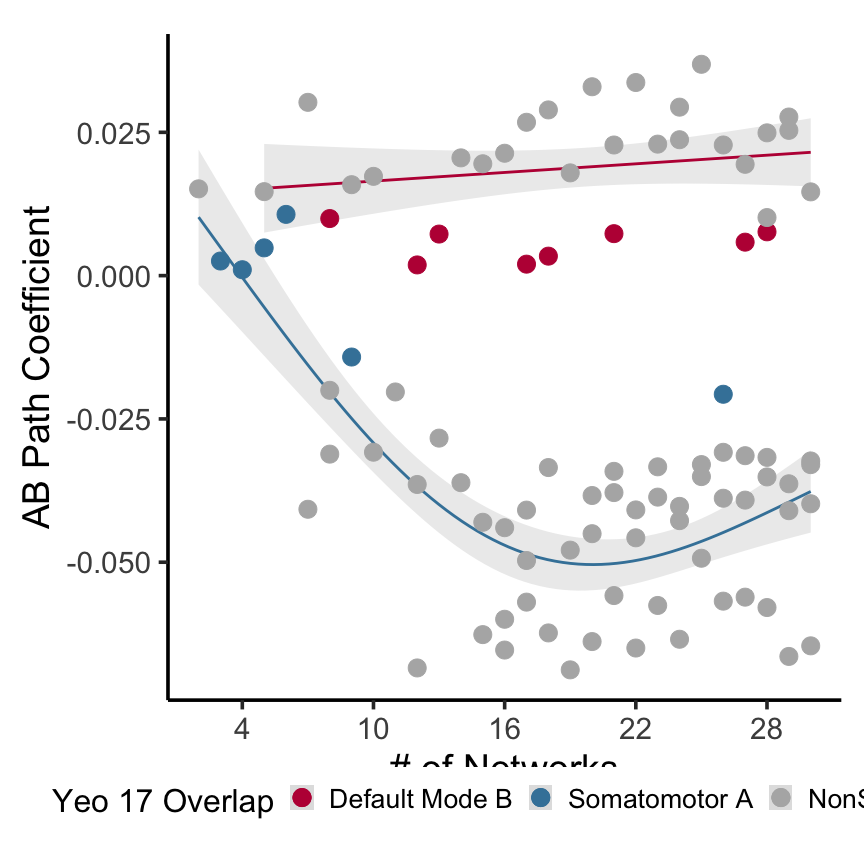
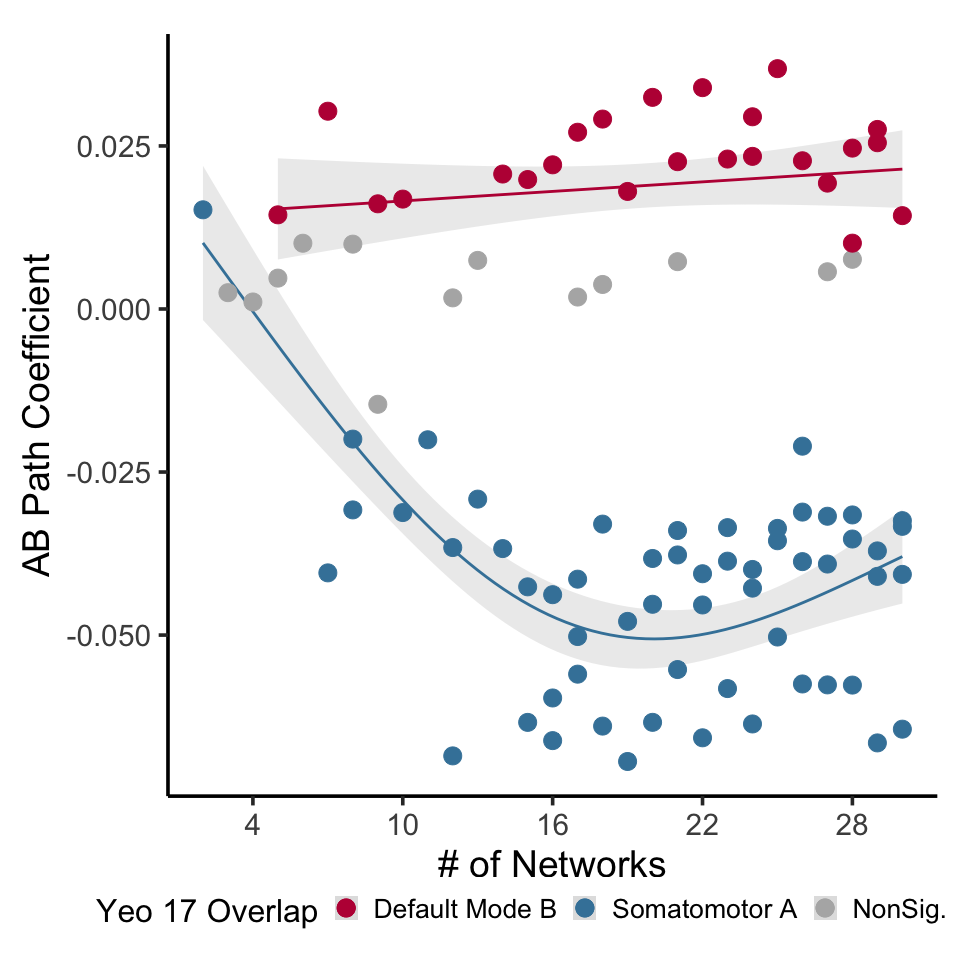
mediation nonsig color fix

diff --git a/scripts/analyses/Network-level-Mediation.md b/scripts/analyses/Network-level-Mediation.md
@@ -353,12 +353,11 @@ ggplot(bwdf,aes(tmvec,AB_Est)) + geom_point(size=6,alpha=.8,aes(color=domnetvecS
 
 ``` r
 # figure 7 stuff - Mediation Effect * Scale * Transmodality
-
 # convert yeo17 membership to vector capturing only sig. yeo17 networks, graying out nonsig.
 Med_domnetSig17<-domnetvec17
 levels(Med_domnetSig17)<-c(levels(domnetvec17),'zNonSig')
-Med_domnetSig17[NL_sigVec>0.05]='zNonSig'
-
+# Set every instance of nonSig mediation to 'zNonSig' (z is there for alphabetical order for ggplot, dumb solution)
+Med_domnetSig17[NL_sigVec==FALSE]='zNonSig'
 bwdf$domnetvec17<-domnetvec17
 bwdf$Med_domnetSig17<-Med_domnetSig17
 ```
